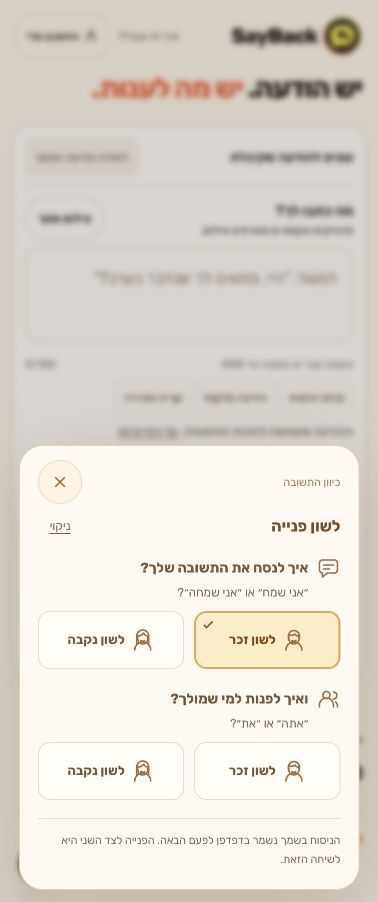
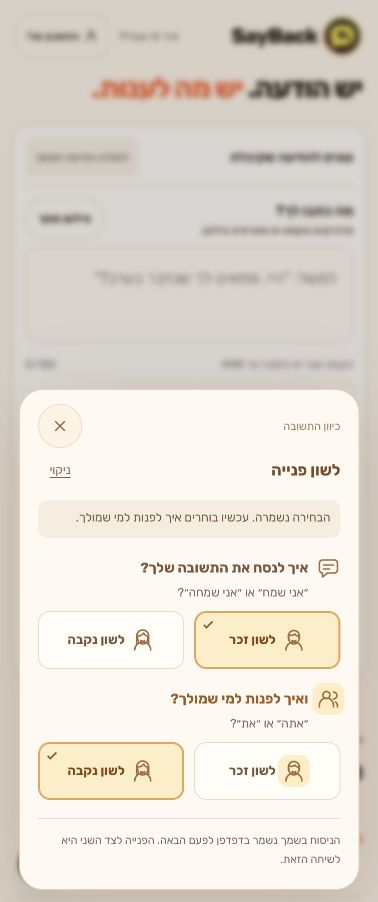
fix: guide language choices before closing the dialog

diff --git a/components/reply-direction-controls.tsx b/components/reply-direction-controls.tsx
@@ -113,6 +113,8 @@ export function ReplyDirectionControls(props: ReplyDirectionControlsProps) {
 function DirectionEditor(props: ReplyDirectionControlsProps & { field: DirectionField; close: () => void }) {
   const { field, close } = props;
   const [lockedChoice, setLockedChoice] = useState<string | null>(null);
+  const [firstLanguageSide, setFirstLanguageSide] = useState<'speaker' | 'recipient' | null>(null);
+  const languagePanel = useRef<HTMLDivElement>(null);
   const isBackgroundLocked = field === 'background' && !props.hasMonthlyFeatureAccess;
 
   function reset() {
@@ -120,10 +122,24 @@ function DirectionEditor(props: ReplyDirectionControlsProps & { field: Direction
     if (field === 'context') props.onContextChange(null);
     if (field === 'goal') props.onGoalChange(null);
     if (field === 'continue') props.onContinuePreferenceChange(null);
-    if (field === 'language') props.onLanguagePreferencesChange({ speaker: 'neutral', recipient: 'neutral' });
+    if (field === 'language') {
+      props.onLanguagePreferencesChange({ speaker: 'neutral', recipient: 'neutral' });
+      setFirstLanguageSide(null);
+    }
     if (field === 'background') props.onBackgroundChange('');
     if (field !== 'language' && field !== 'background') close();
     setLockedChoice(null);
+  }
+
+  function chooseLanguage(side: 'speaker' | 'recipient', value: 'masculine' | 'feminine') {
+    props.onLanguagePreferencesChange({ ...props.languagePreferences, [side]: value });
+    if (firstLanguageSide && firstLanguageSide !== side) {
+      close();
+      return;
+    }
+    setFirstLanguageSide(side);
+    const nextSide = side === 'speaker' ? 'recipient' : 'speaker';
+    languagePanel.current?.querySelector<HTMLButtonElement>(`[data-direction-option="${nextSide}-${props.languagePreferences[nextSide] === 'feminine' ? 'feminine' : 'masculine'}"]`)?.focus();
   }
 
   function choice<T extends string>(value: T, selected: boolean, change: (value: T) => void, monthly = false, illustration?: string, label: string = value) {
@@ -166,15 +182,18 @@ function DirectionEditor(props: ReplyDirectionControlsProps & { field: Direction
         <p className="sb-direction-help">להשאיר את השיחה פתוחה — לא להסכים לתוכן ההודעה.</p>
         <div className="sb-direction-options sb-direction-options-wide">{CONTINUE_PREFERENCE_OPTIONS.map((value) => choice<ContinuePreference>(value, props.continuePreference === value, props.onContinuePreferenceChange, false, undefined, value === 'כן' ? 'כן' : 'לסיים בנעימות'))}</div>
       </> : null}
-      {field === 'language' ? <div className="sb-direction-language">
+      {field === 'language' ? <div className="sb-direction-language" ref={languagePanel}>
+        <p className="sb-language-progress" role="status">{firstLanguageSide
+          ? `הבחירה נשמרה. ${firstLanguageSide === 'speaker' ? 'עכשיו בוחרים איך לפנות למי שמולך.' : 'עכשיו בוחרים את הניסוח שלך.'}`
+          : 'בוחרים בשני החלקים, והחלון נסגר מעצמו. כל בחירה נשמרת מיד.'}</p>
         {(['speaker', 'recipient'] as const).map((side) => (
-          <fieldset key={side}>
+          <fieldset key={side} data-next={firstLanguageSide && firstLanguageSide !== side || undefined}>
             <legend><span className="sb-language-question"><LanguageIcon kind={side} />{side === 'speaker' ? 'איך לנסח את התשובה שלך?' : 'ואיך לפנות למי שמולך?'}</span></legend>
             <p className="sb-direction-help">{side === 'speaker' ? '״אני שמח״ או ״אני שמחה״?' : '״אתה״ או ״את״?'}</p>
             <div className="sb-direction-options">
               {(['masculine', 'feminine'] as const).map((value) => (
                 <button key={value} type="button" className="sb-direction-option" aria-pressed={props.languagePreferences[side] === value}
-                  data-direction-option={`${side}-${value}`} onClick={() => { props.onLanguagePreferencesChange({ ...props.languagePreferences, [side]: value }); close(); }}>
+                  data-direction-option={`${side}-${value}`} onClick={() => chooseLanguage(side, value)}>
                   {props.languagePreferences[side] === value ? <svg className="sb-language-check" width="14" height="14" viewBox="0 0 16 16" fill="none" stroke="currentColor" strokeWidth="2" aria-hidden="true"><path d="m3 8 3 3 7-7" /></svg> : null}
                   <LanguageIcon kind={value} />
                   {`לשון ${genderLabels[value]}`}

diff --git a/components/reply-direction-controls.css b/components/reply-direction-controls.css
@@ -84,6 +84,9 @@
 .sb-language-question { display: flex; align-items: center; gap: 8px; }
 .sb-direction-dialog .sb-direction-language { grid-template-columns: 1fr; gap: 18px; margin-top: 8px; }
 .sb-direction-language fieldset { margin: 0; }
+.sb-language-progress { margin: 0; min-height: 38px; padding: 8px 10px; border-radius: 10px; background: #f6eddf; color: #795637; font-size: 12px; line-height: 19px; }
+.sb-direction-language fieldset[data-next] .sb-language-question { color: #a15a20; }
+.sb-direction-language fieldset[data-next] .sb-language-icon { background: #ffedc5; border-radius: 6px; box-shadow: 0 0 0 4px #ffedc5; }
 .sb-direction-language legend { margin-bottom: 0; font-size: 14px; line-height: 22px; }
 .sb-direction-language fieldset .sb-direction-help { margin: 4px 32px 10px 0; font-size: 12px; }
 .sb-direction-dialog .sb-direction-language .sb-direction-options { display: grid; grid-template-columns: repeat(2, minmax(0, 1fr)); gap: 10px; }

diff --git a/README.md b/README.md
@@ -49,7 +49,7 @@ No time is selected by default.
 ## What it does
 
 - **Three suggestions per request:** a short interpretation of the incoming message plus exactly three Hebrew replies.
-- **Compact reply directions:** a compact composer toolbar opening a focused dialog with directly selectable options for tone, context, goal, grammatical preferences and conversation continuation, using the warm cream/orange palette. Selected values stay visible in the category buttons; selecting an option closes the dialog without advancing to another category. Speaker grammatical preference is remembered in this browser; recipient preference stays temporary; all 10 tones and 12 contexts remain available under their existing access rules. Selected values and explicit resets stay visible, including grammatical preferences. Monthly features require a monthly subscription.
+- **Compact reply directions:** a compact composer toolbar opening a focused dialog with directly selectable options for tone, context, goal, grammatical preferences and conversation continuation, using the warm cream/orange palette. Selected values stay visible in the category buttons; selecting an option closes the dialog without advancing to another category, except grammatical preferences, which stay open until both questions have been chosen during that visit. Speaker grammatical preference is remembered in this browser; recipient preference stays temporary; all 10 tones and 12 contexts remain available under their existing access rules. Selected values and explicit resets stay visible, including grammatical preferences. Monthly features require a monthly subscription.
 - **Refinement:** soften, sharpen, regenerate, or give a custom rewriting instruction. Editing the request marks previous results as outdated; refining a result keeps its original request context.
 - **Follow-ups:** draft a message when someone has not replied, using the last outgoing message and elapsed time.
 - **Text or screenshot input:** image understanding is available through the configured OpenAI mode; local free mode is rule-based and does not read image contents.
@@ -100,13 +100,13 @@ This runs lint, type checking, regression suites, and a production build. For th
 - [Development, configuration, verification, and deployment](docs/development.md)
 - [Visitor insights](docs/visitor-insights.md)
 
-Mobile layout verified at 320×568, 360×740, 375×667 and 390×844 CSS pixels: the incoming message field, direction toolbar and generation action fit in the initial viewport. Direction dialogs close on selection, Escape or a click outside. These checks use browser emulation; an on-screen phone keyboard reduces available space.
+Mobile layout verified at 320×568, 360×740, 375×667 and 390×844 CSS pixels: the incoming message field, direction toolbar and generation action fit in the initial viewport. Direction dialogs close on selection (after both questions for grammatical preferences), Escape or a click outside. These checks use browser emulation; an on-screen phone keyboard reduces available space.
 
 The incoming message field grows and shrinks with its content, capped at 160px on phones (120px on short viewports) and 240px on desktop, with internal scrolling beyond the cap. Direction dialogs use a circular 44px close control.
 
 ![Reply direction dialog with circular close control](docs/screenshots/reply-direction-dialog.png)
 
-The grammatical preference dialog stacks two clear questions, each with a pair of generous masculine/feminine buttons and short Hebrew examples. Custom inline SVG illustrations keep the icons consistent across devices. Use **ניקוי** to clear both preferences; there is no separate “no preference” option.
+The grammatical preference dialog stacks two clear questions, each with a pair of generous masculine/feminine buttons and short Hebrew examples. Custom inline SVG illustrations keep the icons consistent across devices. Each choice applies immediately: the first moves focus to the other question and highlights it; choosing both sides during the current visit closes the dialog automatically, in either order. Changing the same side again keeps it open, and closing early keeps that choice. Use **ניקוי** to clear both preferences and restart this flow; there is no separate “no preference” option or save button.
 
 ![Mobile Hebrew grammatical preferences with custom SVG icons](docs/screenshots/reply-language-dialog.jpg)
 
